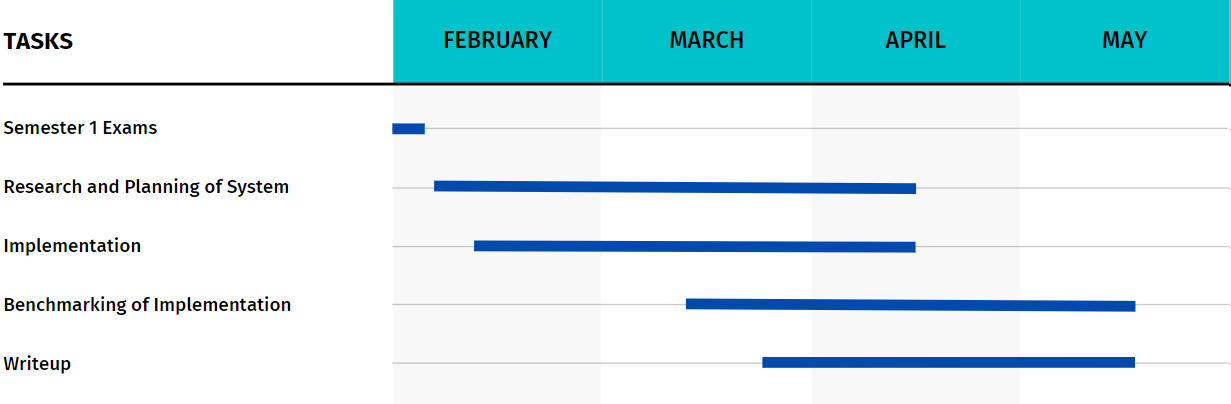
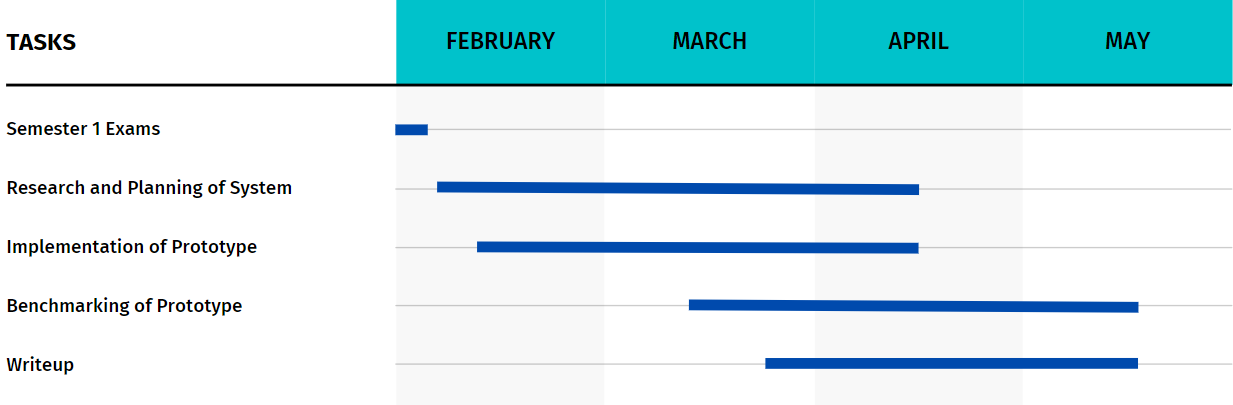
Updated deliverables section and gantt chart

diff --git a/progress-report/report.tex b/progress-report/report.tex
@@ -127,7 +127,7 @@ The figure below is the Gantt chart of how work will be distributed over the sec
 \end{figure}
 Several experiments will be carried out to empirically measure the response times of the actors under varying computational load to assess the system’s scalability. The time and space complexity and generated network traffic will also be analysed to measure the footprint the framework has on the devices it is running on. Moreover, a case study will be done to perform a qualitative comparison between JavaScript code using the actor model to plain JavaScript. The experiments will add to the existing evidence of the practicality of implementing the actor model framework in JavaScript. The experiments will also assess the system's performance and scalability through quantitative analysis. Finally, through the qualitative case study the usability of the actor model will be shown when using JavaScript on the web.
 \section{Deliverables}
-The deliverables of this project will include a GitHub repository containing the implementation of the project (see \url{https://github.com/Android2771/fyp}). The repository will also include applications or configurations to benchmark the system as well as the \LaTeX~file for the Final Year Project documentation.
+The deliverables of this project will be included in a GitHub repository containing the implementation of the project (see \url{https://github.com/Android2771/fyp}). The repository will also include applications or configurations to benchmark the system as well as the \LaTeX~file for the Final Year Project documentation. The Final Year Report will be provided separately as per the provided schedule requirements.
 \bibliographystyle{ieeetr}
 \bibliography{references}  
 % \end{multicols}
